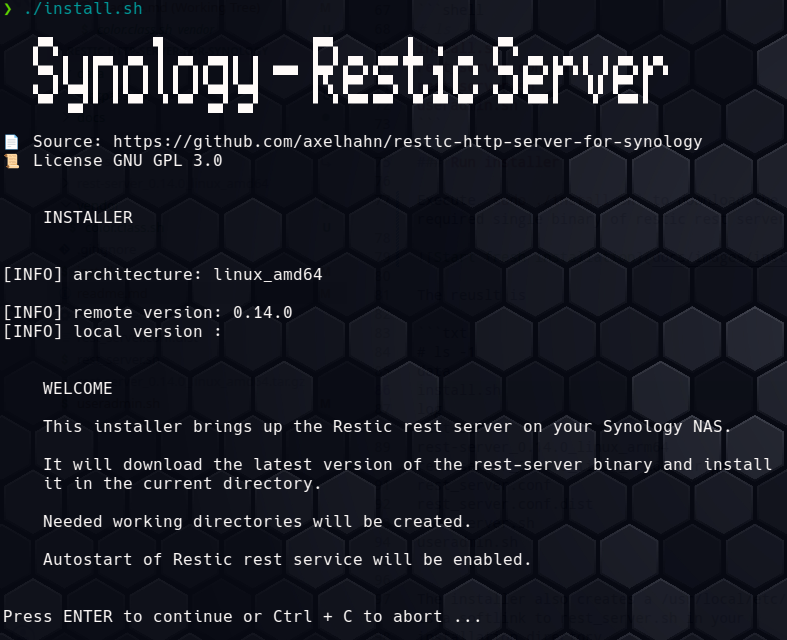
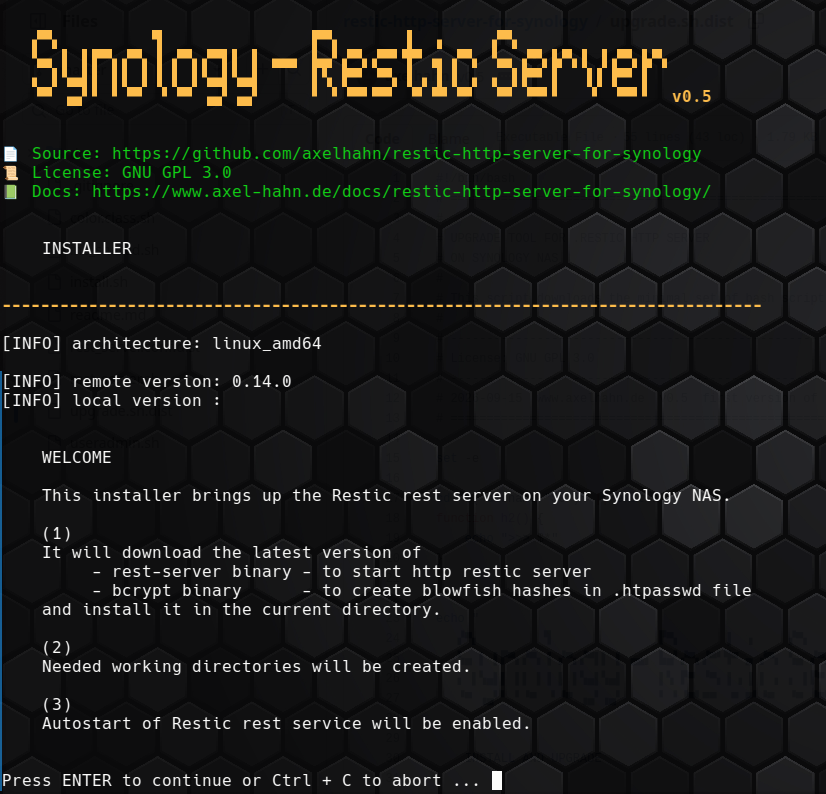
update docs

diff --git a/docs/20_Installation.md b/docs/20_Installation.md
@@ -21,7 +21,29 @@ Via SSH console:
 # Create directory
 sudo mkdir -p /volume1/opt/restic
 cd /volume1/opt/restic
+```
 
+#### Variant: download installer/ upgrader
+
+```shell
+curl -o upgrade.sh https://raw.githubusercontent.com/axelhahn/restic-http-server-for-synology/refs/heads/master/upgrade.sh.dist
+chmod 0755 upgrade.sh
+sudo ./upgrade.sh
+```
+
+![Start fresh installation](images/upgrade_start.png)
+
+This script will download the shell scripts and afterwards starts the installer.
+
+This is the faster way.
+
+![Start fresh installation](images/install_start.png)
+
+#### Variant: manual installation
+
+For historical reasons or if you don't want to use the installer `upgrade.sh`, you perform all install steps manually:
+
+```shell
 # get the sources
 sudo curl -o master.tar.gz https://codeload.github.com/axelhahn/restic-http-server-for-synology/tar.gz/refs/heads/master
 sudo tar -xzf master.tar.gz
@@ -35,33 +57,48 @@ The result is something like that:
 
 ```shell
 # ls -1
-install.sh
+color.class.sh
+inc_shared.sh
+install.sh*          <<<<<
+readme.md
 rest_server.conf.dist
-rest_server.sh
-useradmin.sh
+rest_server.sh*
+upgrade.sh.dist*
+useradmin.sh*
 ```
 
-### Run installer
+In the list of files is the installer.
 
 Execute `sudo ./install.sh` to download the latest version of the required single binaries of restic rest server and bcrypt and initialize the service.
 
 ![Start fresh installation](images/install_start.png)
 
-The reuslt is
+The reuslt is:
+
+* bcrypt was installed
+* rest-server was installed
+* rest_server.conf was created
+* dubdirs dta and log were created
 
 ```txt
 # ls -1
-bcrypt
-data
-install.sh
-log
-rest-server
-rest-server_0.14.0_linux_arm64
-rest-server_0.14.0_linux_arm64.tar.gz
+bcrypt/
+color.class.sh
+data/
+docs/
+inc_shared.sh
+install.sh*
+log/
+readme.md
+rest-server@
+rest-server_0.14.0_linux_amd64/
+rest-server_0.14.0_linux_amd64.tar.gz
 rest_server.conf
 rest_server.conf.dist
-rest_server.sh
-useradmin.sh
+rest_server.sh*
+upgrade.sh*
+upgrade.sh.dist*
+useradmin.sh*
 ```
 
 The installer also creates a /usr/local/etc/rc.d/rest_server.sh - which is a softlink to rest_server.sh in your installation directory.

diff --git a/docs/50_User admin.md b/docs/50_User admin.md
@@ -2,29 +2,7 @@
 
 ### Show help
 
-```txt
-./useradmin.sh
-
-(...)
-
-USAGE: useradmin.sh ACTION [user]
-
-ACTIONS:
-
-  status         Show status of current users and used disk size
-  add [user]     Add a new user and password.
-                 As 2nd parameter you can optionally add a username.
-                 Without given user it will be asked for interactively.
-                 If the user exists it will abort.
-  update [user]  Update the password for an existing user.
-                 As 2nd parameter you can optionally add a username.
-                 Without given user it will be asked for interactively.
-                 If the user does not exist it will abort.
-  delete [user]  Delete a user and all its backup data(!!!).
-                 Without given user you get the status and it will be asked
-                 for interactively.
-
-```
+![Help of user admin](images/useradmin_help.png)
 
 ### Show status
 

diff --git a/docs/90_Upgrade.md b/docs/90_Upgrade.md
@@ -5,12 +5,13 @@ It finds a new version of Restic rest server and brypt and installs it in the cu
 
 Udate scripts:
 
-* Execute `sudo ./upgrade.sh` to download the latest versions of the scripts 
-* OR: execute steps im "Get sources" to download the current version from Github in [Installation](20_Installation.md)
+Execute `sudo ./upgrade.sh` to download the latest versions of the scripts. 
 
-Upgrade restic rest server.
+![Start the upgrade tool](images/upgrade_start.png)
 
-* Execute `sudo ./install.sh` to download the latest binaries
+Afterwards it will start the newly downloaded `./install.sh` to download/ upgrade needed binaries.
+
+![Start the upgrade tool](images/install_upgrade.png)
 
 After update/ upgrade:
 

diff --git a/docs/_index.md b/docs/_index.md
@@ -9,7 +9,7 @@
 
 👤 Author: Axel Hahn\
 🧾 Source: <https://github.com/axelhahn/restic-http-server-for-synology/>\
-📜 License: GNU GPL 3.0\
+📜 License: GNU GPL 3.0 \
 📗 Docs: see <https://www.axel-hahn.de/docs/restic-http-server-for-synology/>
 
 ---
